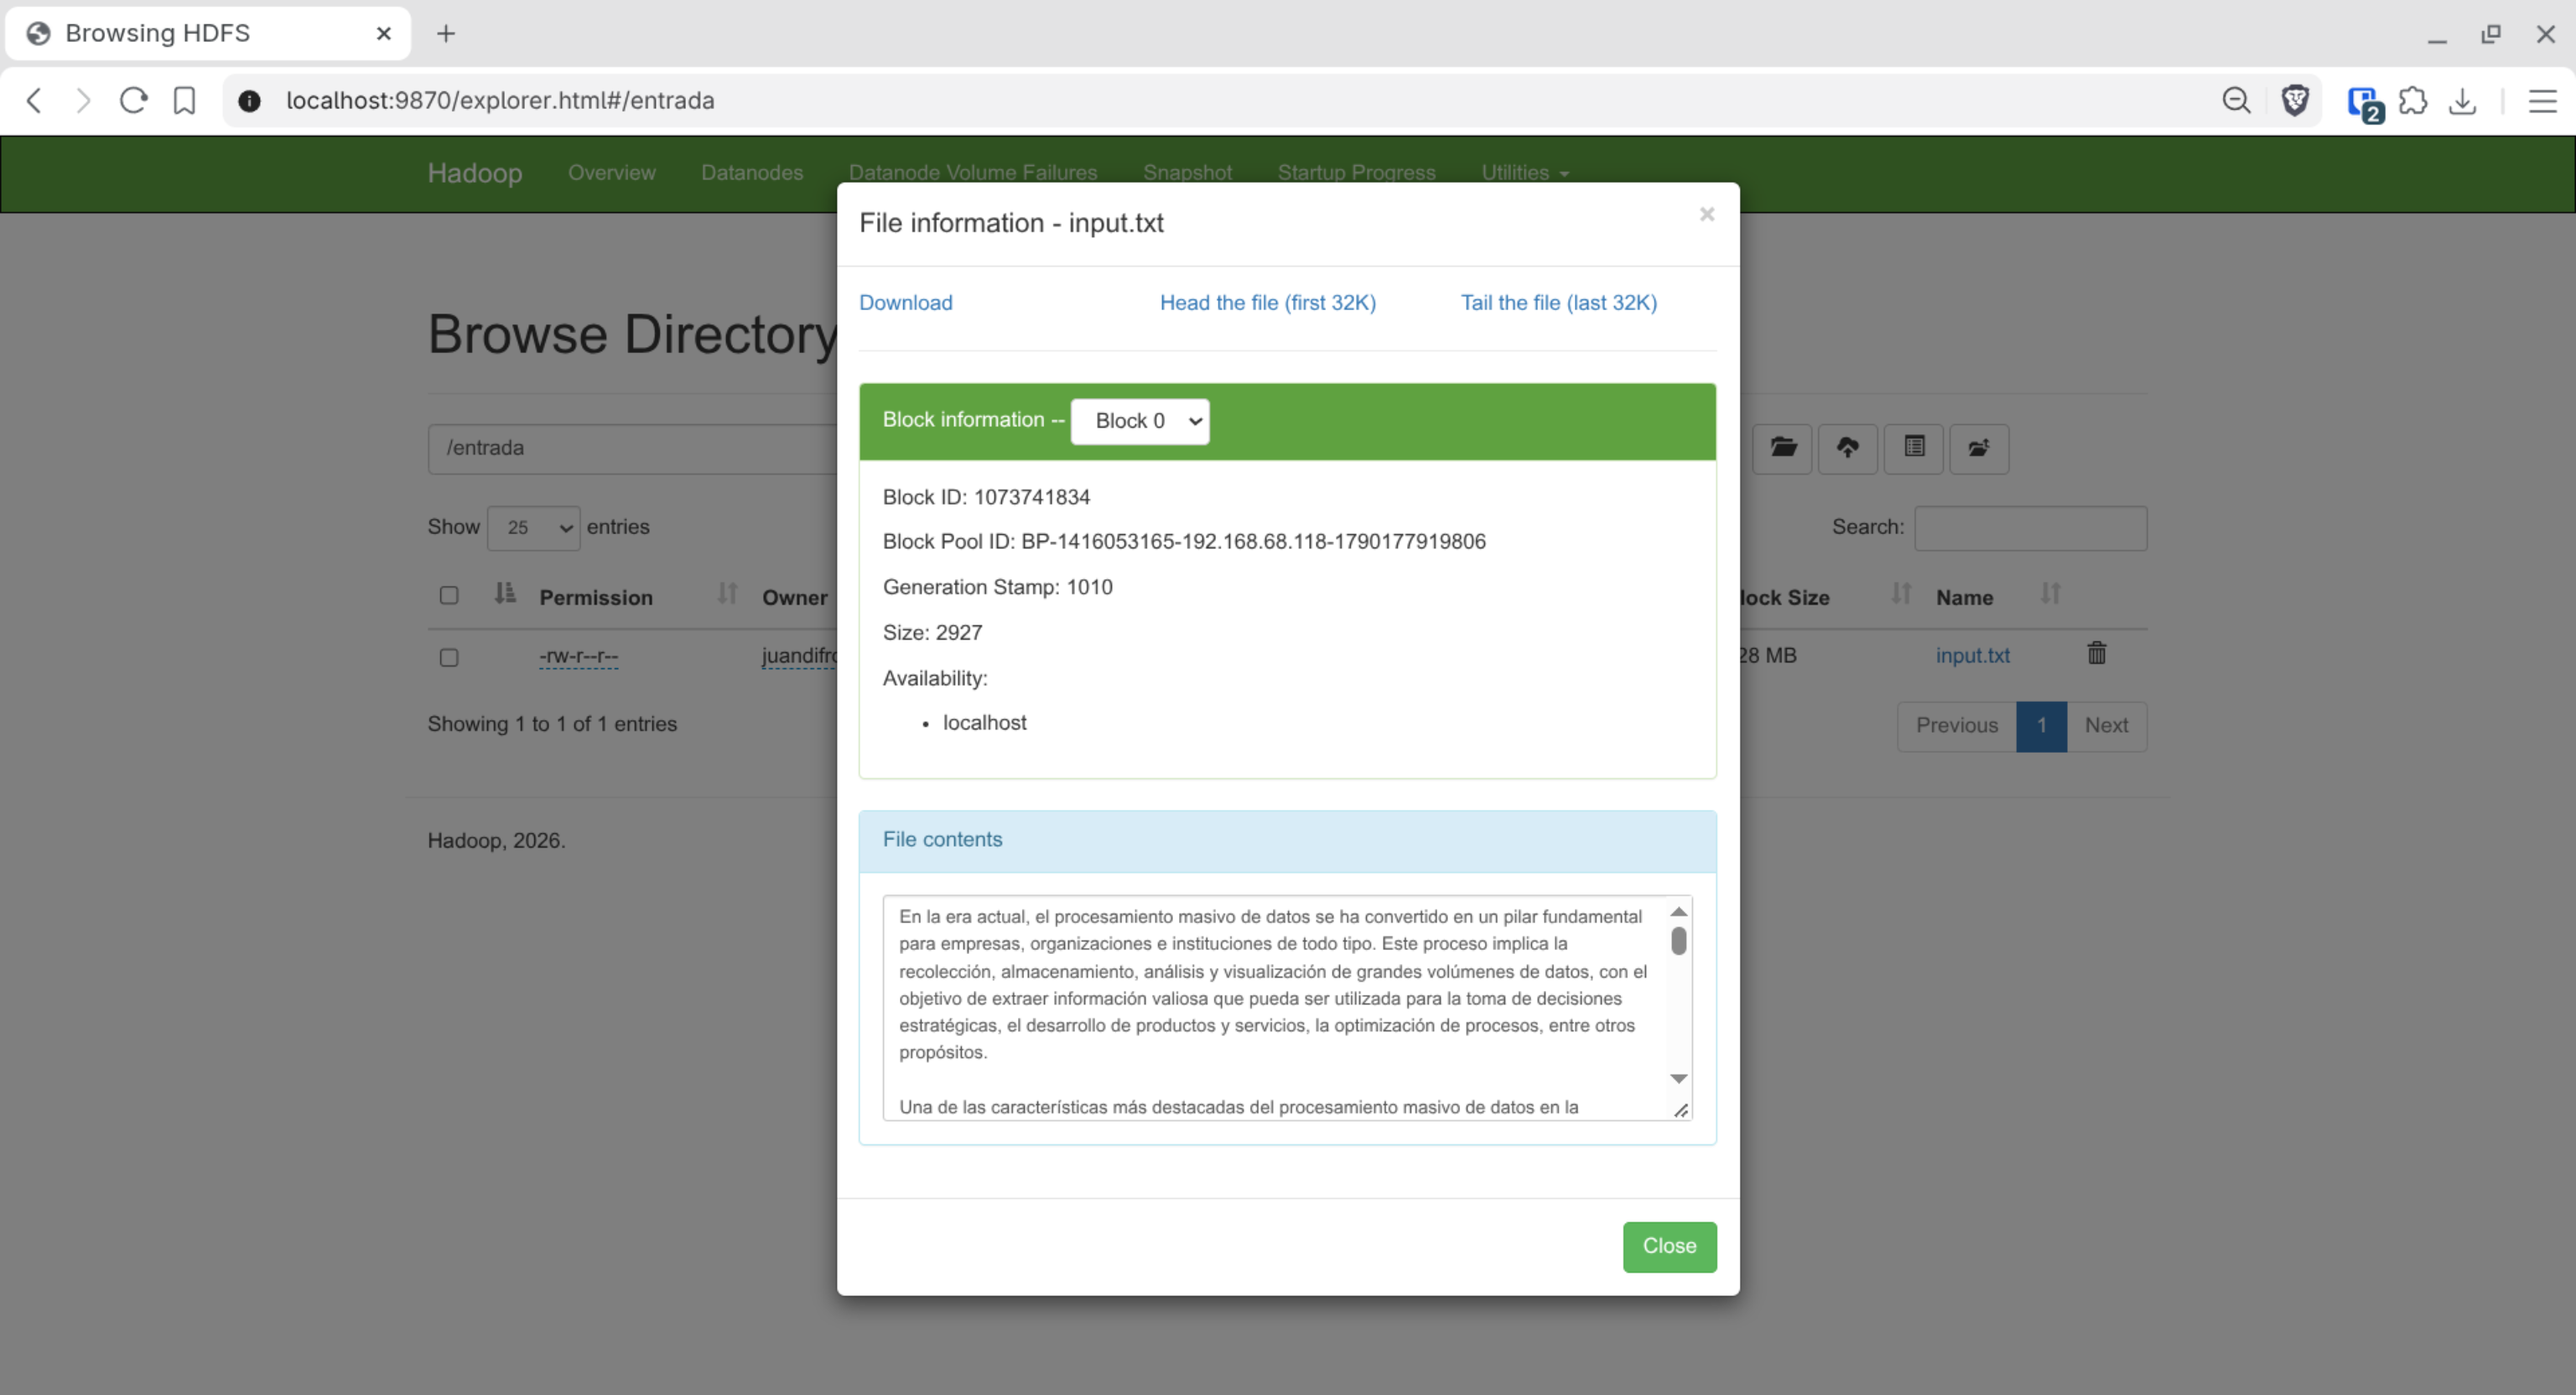
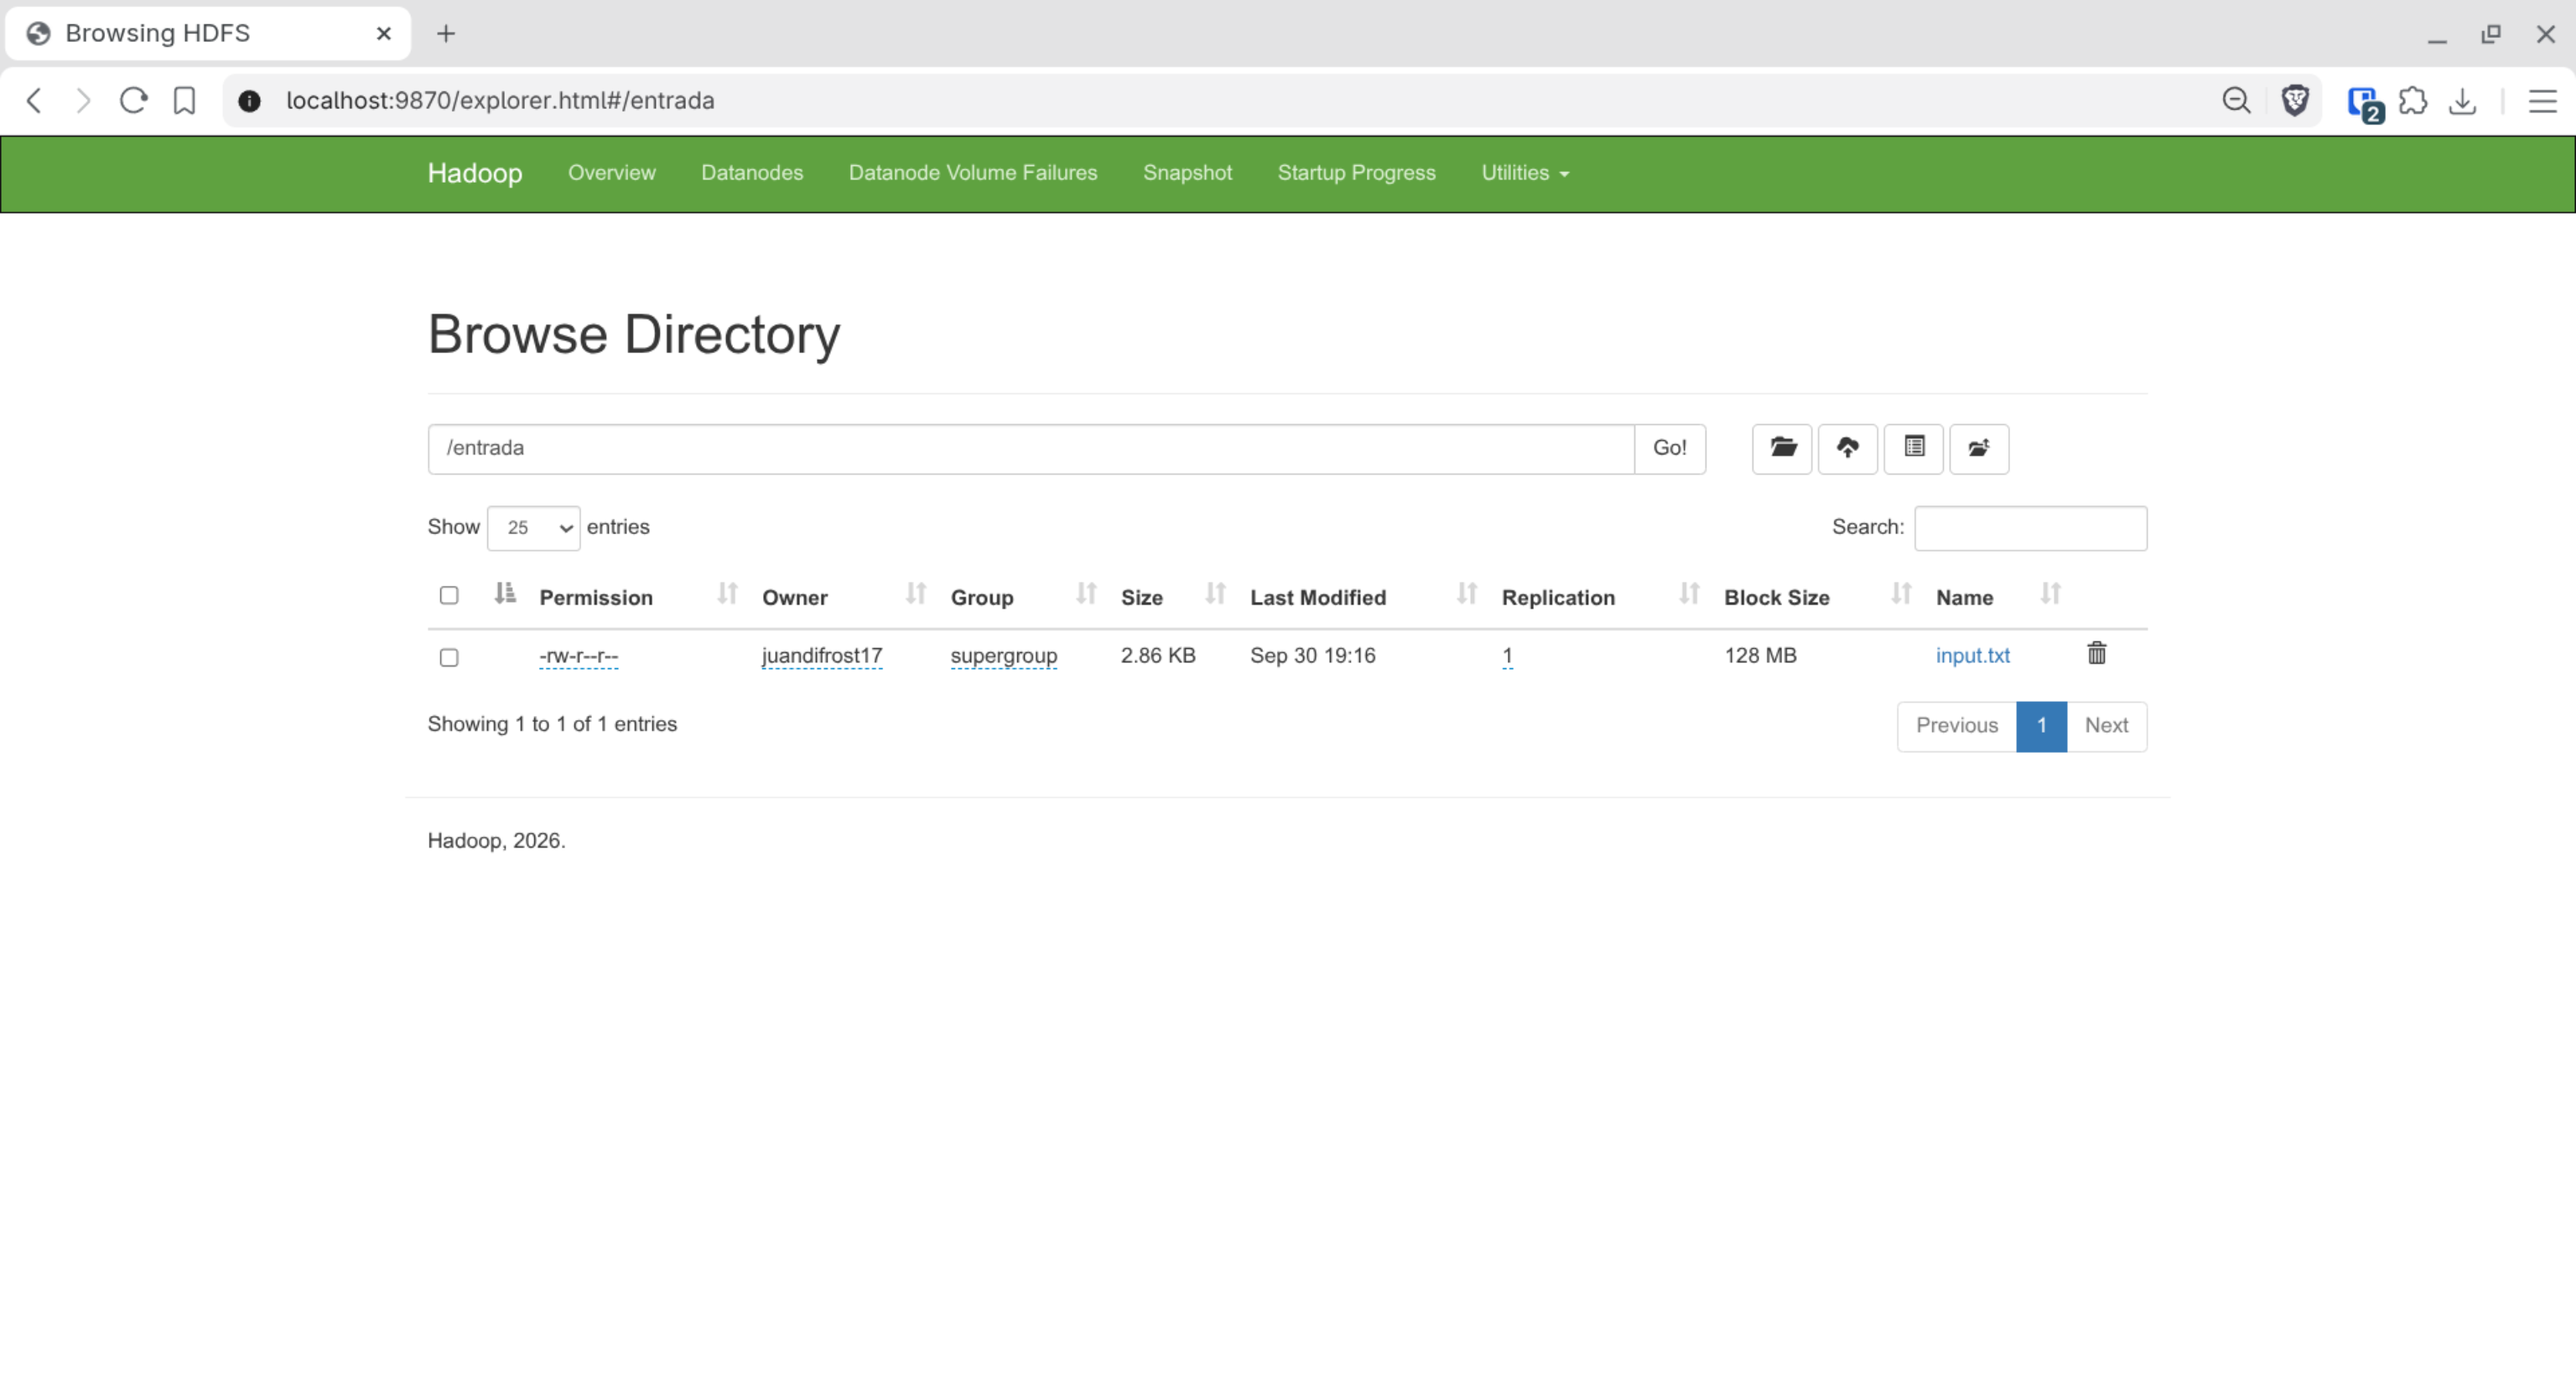
docs: reordenar capturas y mostrar los DataNodes después del estado del NameNode

diff --git a/README.md b/README.md
@@ -80,48 +80,48 @@ Pestaña *Overview* del NameNode (`localhost:9000`) activo, versión Hadoop 3.5.
 
 ![Estado del NameNode](capturas/1.png)
 
-### 2. Directorio `/entrada` en HDFS
+### 2. DataNodes activos
+Pestaña *Datanodes*: un DataNode en servicio (`localhost:9866`), con 16 bloques, versión 3.5.0 y capacidad de 472.84 GB.
+
+![DataNodes activos](capturas/2.png)
+
+### 3. Directorio `/entrada` en HDFS
 Contiene el archivo `input.txt` (2.86 KB), con replicación 1 y tamaño de bloque de 128 MB.
 
-![Directorio /entrada](capturas/2.png)
+![Directorio /entrada](capturas/3.png)
 
-### 3. Detalle del archivo de entrada `input.txt`
+### 4. Detalle del archivo de entrada `input.txt`
 Información del bloque (2927 bytes, disponible en `localhost`) y el contenido original del texto.
 
-![Detalle de input.txt](capturas/3.png)
+![Detalle de input.txt](capturas/4.png)
 
-### 4. Directorio de salida `/salida3`
+### 5. Directorio de salida `/salida3`
 Se observan `_SUCCESS` (el job terminó correctamente) y `part-00000` (el resultado, de 2.07 KB).
 
-![Directorio /salida3](capturas/4.png)
+![Directorio /salida3](capturas/5.png)
 
-### 5. Detalle del archivo resultante `part-00000`
+### 6. Detalle del archivo resultante `part-00000`
 Información del bloque (2121 bytes) y el inicio del contenido, con las palabras ya en minúsculas y sin signos de puntuación.
 
-![Detalle de part-00000](capturas/5.png)
+![Detalle de part-00000](capturas/6.png)
 
-### 6. Ejecución del job
+### 7. Ejecución del job
 Comando `hadoop jar` y avance del job hasta `map 100% reduce 100%` y `completed successfully`.
 
-![Ejecución del job: inicio](capturas/6.png)
+![Ejecución del job: inicio](capturas/7.png)
 
 Contadores del job. `Map output records=423` corresponde a las palabras del texto y `Reduce output records=193` a las palabras distintas del resultado.
 
-![Ejecución del job: contadores](capturas/6.1.png)
+![Ejecución del job: contadores](capturas/7.1.png)
 
 Final de la ejecución, sin errores de *shuffle*.
 
-![Ejecución del job: final](capturas/6.2.png)
+![Ejecución del job: final](capturas/7.2.png)
 
-### 7. Contenido del resultado
+### 8. Contenido del resultado
 Salida de `hdfs dfs -cat /salida3/part-00000`.
 
-![Resultado del conteo](capturas/7.png)
-
-### 8. DataNodes activos
-Pestaña *Datanodes*: un DataNode en servicio (`localhost:9866`), con 16 bloques, versión 3.5.0 y capacidad de 472.84 GB.
-
-![DataNodes activos](capturas/8.png)
+![Resultado del conteo](capturas/8.png)
 
 ## Resultado
 
